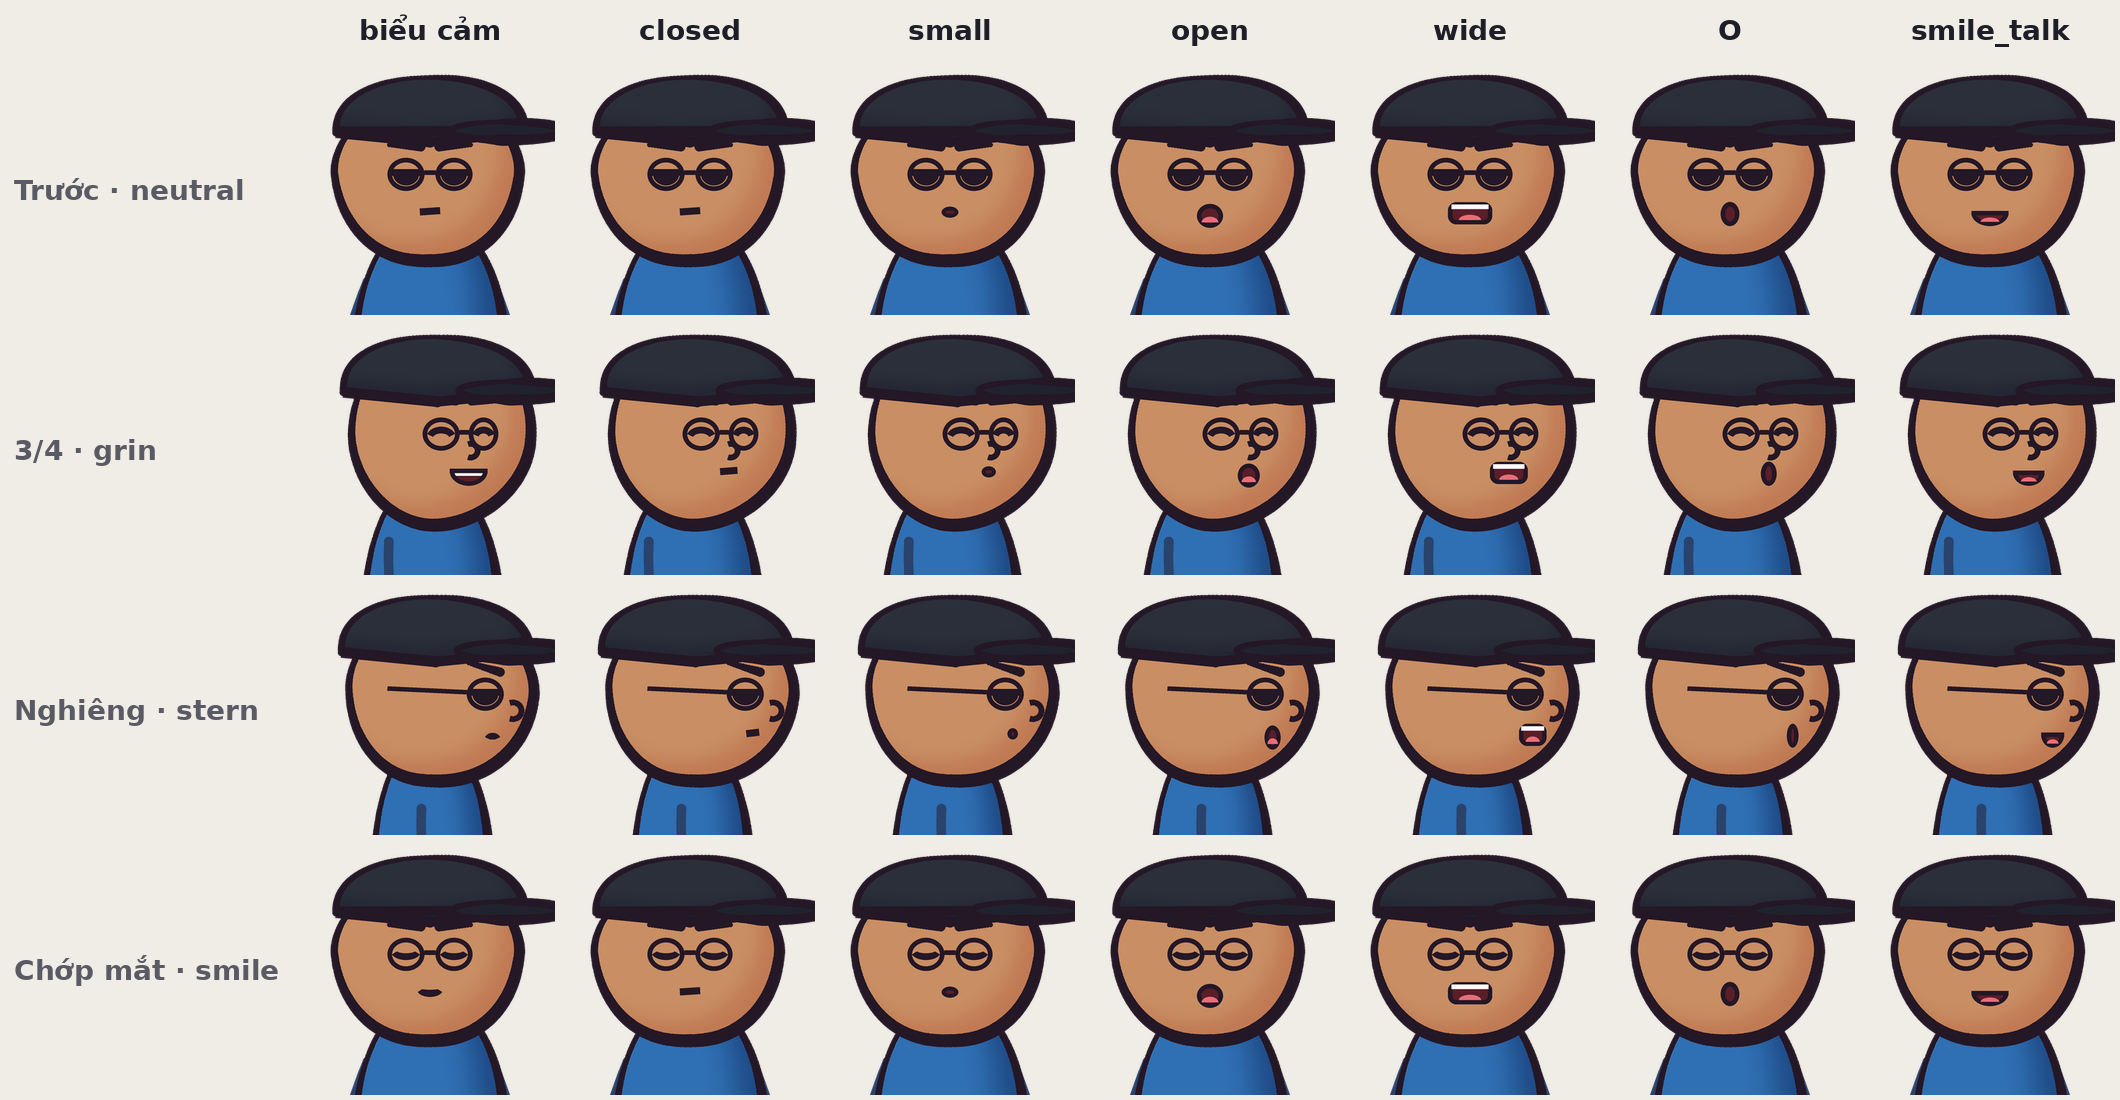
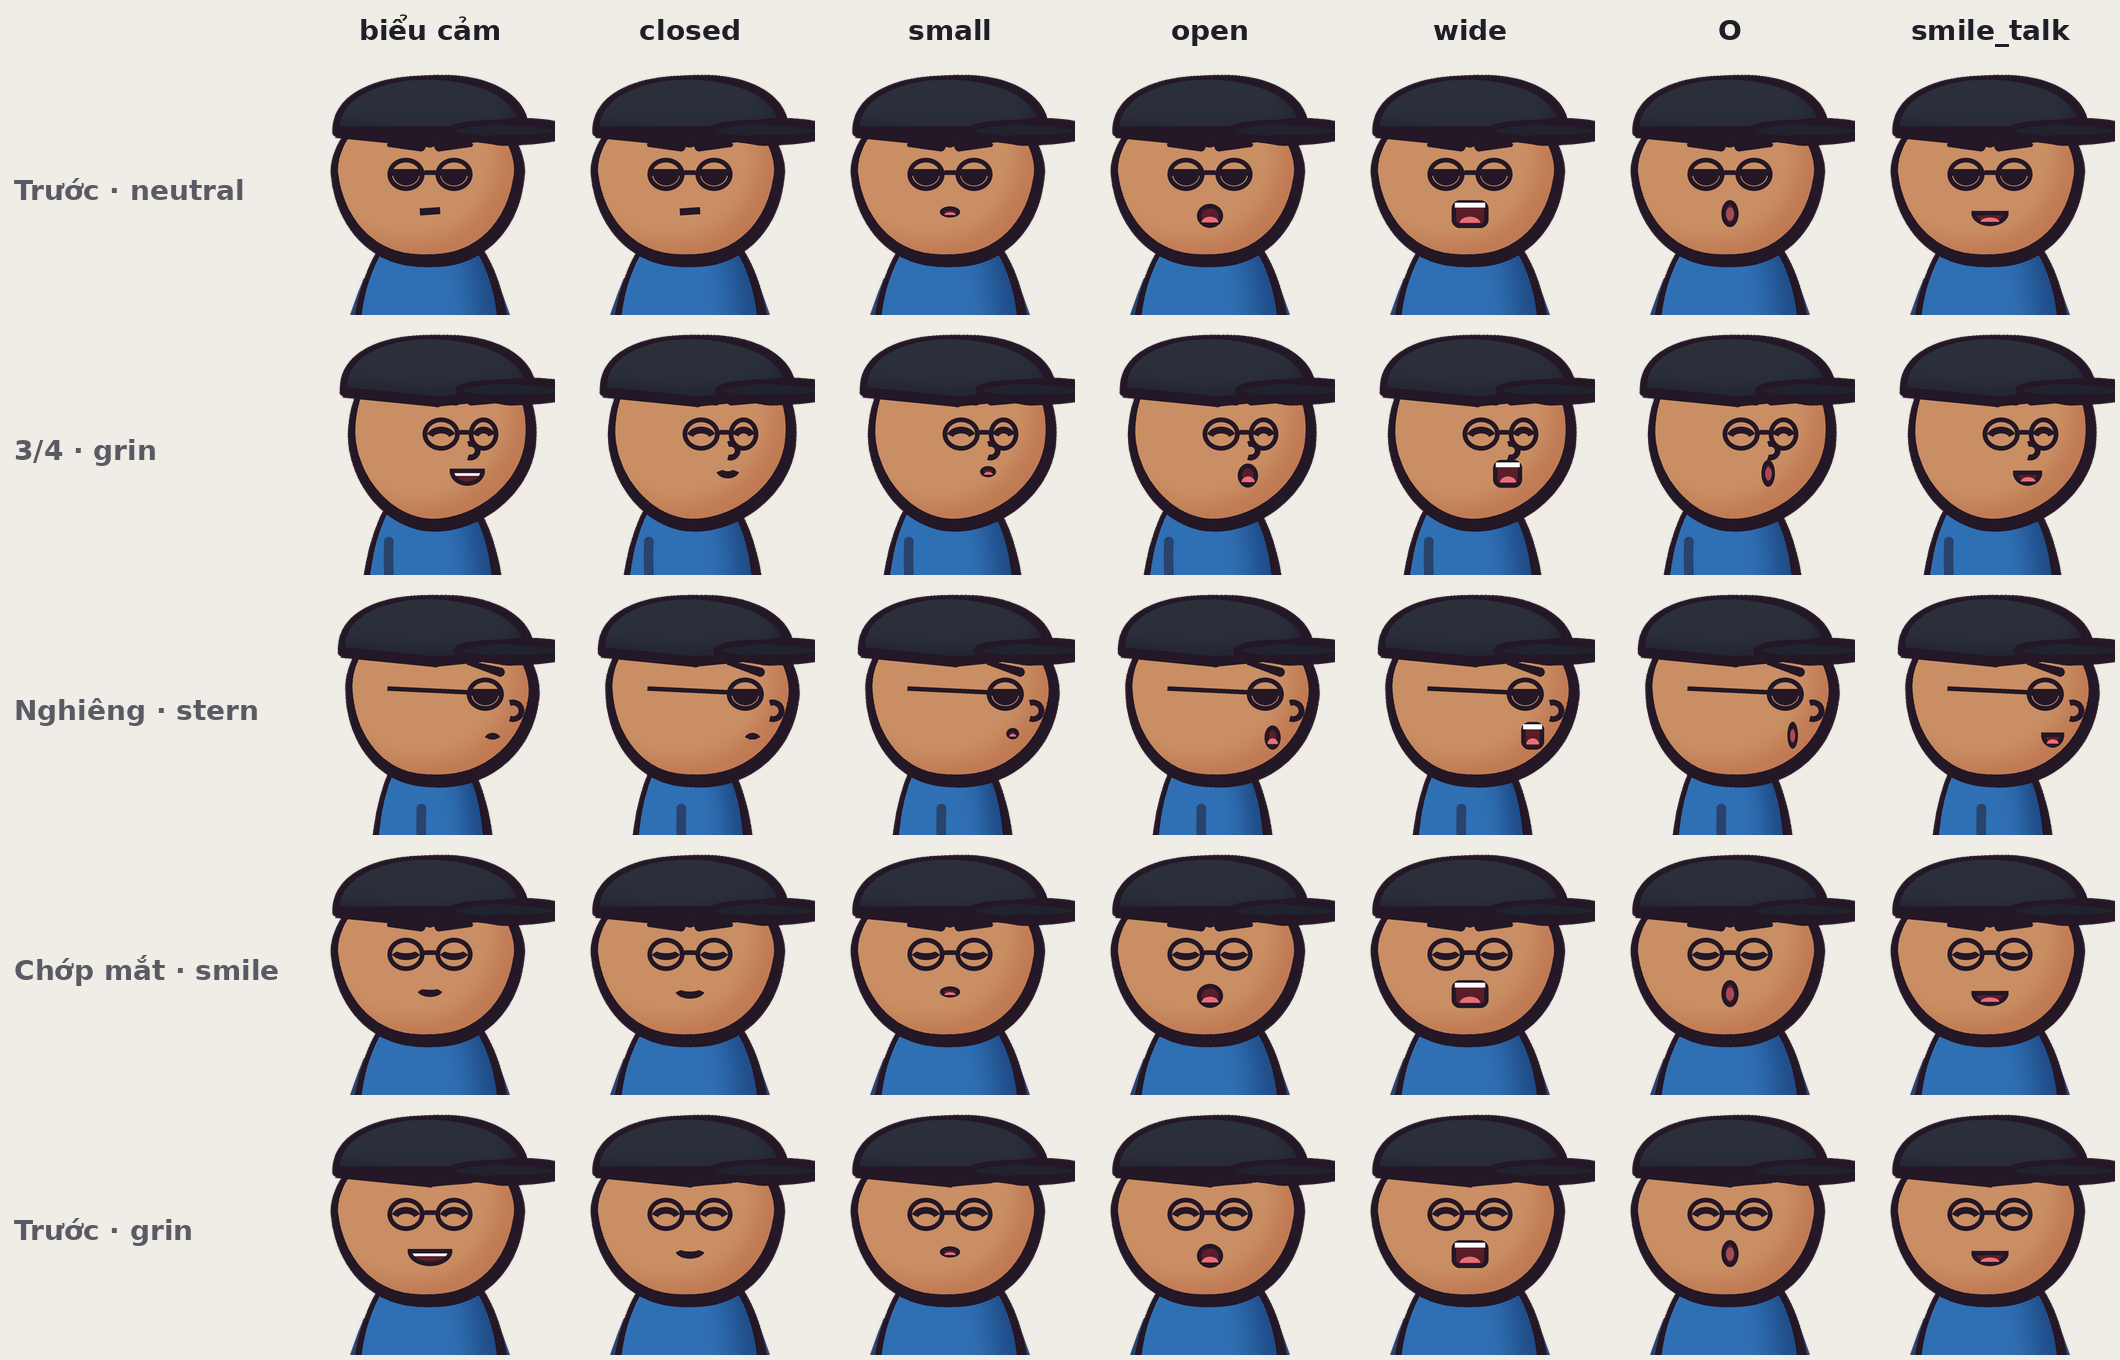
Bean cast: lip-sync mouths in every view (WIP review round 2), walk cycle script
mouth= works in the front view too and closed follows the expression;
small/O/wide reshaped after review. walk.py: foot-locked side walk.

Claude-Session: https://claude.ai/code/session_01CUE841jip3JiSfeXD1a8wE

diff --git a/characters/scripts/walk.py b/characters/scripts/walk.py
@@ -1,0 +1,92 @@
+# Side-view walk cycle for the bean cast, following stickman/DRAWING_RULES.md 20-29:
+#   contact -> down -> passing -> up; only the swinging knee bends (most while passing under the hip);
+#   foot locking (the hip travels exactly as far as the planted foot slides back); arms swing opposite the legs,
+#   a little AFTER them, with the forearm trailing; a small lean into the walk; blinks; a settle on the stop.
+# walk_pose(t) -> turned() pose dict;  walk_track(seconds) -> per-frame (pose, x_offset_px, planted, expr_kw)
+# usage: walk.py <out_dir>   (writes a contact strip, a GIF and prints the foot-lock check)
+import math, os, sys
+sys.path.insert(0, os.path.dirname(os.path.abspath(__file__)))
+from bean import turned, BUILDS
+
+FPS = 30
+STRIDE = 1.1           # seconds per full cycle (two steps)
+
+def leg_len(build):
+    B = BUILDS[build]; HH = 2 * B['b']; u = 2 * B['a'] / 100
+    hip_y = 975 - HH * (1 + B['torso'] + B['legs']) + 2 * B['b'] + B['torso'] * HH - 0.12 * HH
+    return (975 - 3.75 * u - hip_y) / 2
+
+def walk_pose(t, amp=21.0):
+    """Angles: + = forward. N leg leads at t=0 (contact, N in front)."""
+    ph = 2 * math.pi * t / STRIDE
+    s, c = math.sin(ph), math.cos(ph)
+    thN, thF = amp * c, -amp * c                                  # thigh: N forward at ph=0
+    swN, swF = max(0.0, -s) ** 1.4, max(0.0, s) ** 1.4            # a leg swings while its thigh moves forward
+    downN = 8 * max(0.0, s) ** 3 * (1 - swN)                       # the stance knee gives a little after contact (DOWN)
+    downF = 8 * max(0.0, -s) ** 3 * (1 - swF)
+    legN = (thN + 0.35 * 30 * swN + downN * 0.3, thN - 0.9 * 34 * swN - downN)   # swing: thigh lifts forward, shin trails
+    legF = (thF + 0.35 * 30 * swF + downF * 0.3, thF - 0.9 * 34 * swF - downF)
+    lag = 0.4                                                       # arms peak a little after the legs (overlap)
+    a = 20 * math.cos(ph - lag)                                     # opposite the legs: near arm goes back when the near leg goes forward
+    fa = 14 + 8 * math.cos(ph - lag - 0.6)                          # forearm trails and stays bent forward
+    return dict(legN=legN, legF=legF, armN=(-a, -a + fa), armF=(a, a + fa), lean=4.0, tilt=-1.0)
+
+def _foot_x(leg, L, s=1):
+    a1, a2 = math.radians(leg[0]), math.radians(leg[1])
+    return s * (math.sin(a1) + math.sin(a2)) * L, (math.cos(a1) + math.cos(a2)) * L
+
+def walk_track(seconds, build='adult', start_x=0.0):
+    """Foot locking: the stance foot (the lower one) stays put; the hip moves by exactly its slide."""
+    L = leg_len(build); out = []; anchor = None; stance = None; hip = start_x
+    for f in range(int(seconds * FPS) + 1):
+        p = walk_pose(f / FPS)
+        xN, yN = _foot_x(p['legN'], L); xF, yF = _foot_x(p['legF'], L)
+        st = 'N' if yN >= yF else 'F'
+        rel = xN if st == 'N' else xF
+        if st != stance: anchor = hip + rel; stance = st
+        hip = anchor - rel
+        out.append((p, hip, st))
+    return out
+
+def blink_at(t, every=(2.3, 3.1, 2.7)):
+    """Blink for ~2 frames every 2-4 s (moving holds never fully freeze)."""
+    acc = 0.6
+    for k in range(100):
+        acc += every[k % len(every)]
+        if acc <= t < acc + 2.5 / FPS: return True
+        if acc > t: return False
+    return False
+
+if __name__ == '__main__':
+    from PIL import Image, ImageDraw
+    out = sys.argv[1] if len(sys.argv) > 1 else '.'
+    char = dict(build='adult', skin='#f6d2b0', shirt='#3fb37f', pants='#2f3f6b', hat='beanie', hat_col='#f2c230', seed=11)
+    track = walk_track(STRIDE)
+    frames = []; rig_x = []
+    for f, (p, hx, st) in enumerate(track):
+        rig = {}
+        im = turned('side', facing=1, pose=p, rig=rig, blink=blink_at(f / FPS), **char)
+        frames.append((im, hx)); rig_x.append((rig['ankleN'][0] + hx, rig['ankleF'][0] + hx, rig['ankleN'][1], rig['ankleF'][1], st))
+    # foot-lock check (QA: a planted foot moves <= 2 px while planted)
+    worst = 0.0; prev = None
+    for xn, xf, yn, yf, st in rig_x:
+        x = xn if st == 'N' else xf
+        if prev and prev[1] == st: worst = max(worst, abs(x - prev[0]))
+        prev = (x, st)
+    print(f'foot lock: planted foot moves at most {worst:.2f} px per frame')
+    # contact strip: 8 poses over one stride, side by side on one ground line, plus a GIF that walks across
+    sel = [round(i * (len(frames) - 1) / 8) for i in range(8)]
+    strip = Image.new('RGBA', (8 * 300, 560), (240, 237, 230, 255)); d = ImageDraw.Draw(strip)
+    for i, k in enumerate(sel):
+        im = frames[k][0].resize((300, 500), Image.LANCZOS); strip.alpha_composite(im, (i * 300, 40))
+        d.text((i * 300 + 10, 8), f'f{k}', fill=(60, 60, 70))
+    d.line([(0, 40 + 487), (2400, 40 + 487)], fill=(150, 140, 130), width=2)
+    strip.save(os.path.join(out, 'walk_strip.png'))
+    gif = []; track2 = walk_track(2 * STRIDE)
+    for f, (p, hx, st) in enumerate(track2):
+        bg = Image.new('RGBA', (900, 520), (240, 237, 230, 255))
+        im = turned('side', facing=1, pose=p, blink=blink_at(f / FPS), **char).resize((300, 500), Image.LANCZOS)
+        bg.alpha_composite(im, (int(-150 + hx * 0.5), 10)); ImageDraw.Draw(bg).line([(0, 497), (900, 497)], fill=(150, 140, 130), width=2)
+        gif.append(bg.convert('P', palette=Image.ADAPTIVE))
+    gif[0].save(os.path.join(out, 'walk.gif'), save_all=True, append_images=gif[1:], duration=int(1000 / FPS), loop=0)
+    print('ok', len(gif), 'frames')

diff --git a/characters/scripts/bean.py b/characters/scripts/bean.py
@@ -303,7 +303,7 @@ def draw_face(C, expr, cx, cy, u, facing, glasses, moustache, has_hat, mouth=Non
         if M:
             for k in (-6, 0, 6): L([(mx + k * u, my - 4 * u), (mx + k * u, my + 4 * u)], 1.6 * u)
         if M: L([(mx - 12 * u, my), (mx + 12 * u, my)], 1.6 * u)
-    if mouth: mouth_shape(d, mouth, mx, my, u, 1.0, 1)
+    if mouth: mouth_shape(d, CLOSED_FOR.get(expr, 'dash') if mouth == 'closed' else mouth, mx, my, u, 1.0, 1)
     if glasses:
         for x in (eL, eR):
             d.ellipse(((x - 10 * u) * S, (cy - 9 * u) * S, (x + 10 * u) * S, (cy + 9 * u) * S), outline=K, width=int(2.6 * u * S))
@@ -383,16 +383,21 @@ def _rot_layer(im, deg, center, translate=(0, 0)):
     return im.rotate(-deg, resample=Image.BICUBIC, center=(center[0] * S, center[1] * S),
                      translate=(translate[0] * S, translate[1] * S))
 
-def mouth_shape(d, kind, mx, my, u, sx=1.0, s=1):
-    """Mouths shared by expressions and lip sync. sx squeezes the width (3/4 and side views)."""
+# 'closed' follows the expression, so a smiling face does not drop to a neutral dash on every closed-mouth frame
+CLOSED_FOR = {'grin': 'smile_closed', 'smile': 'smile_closed', 'smug': 'smirk', 'stern': 'frown', 'pained': 'frown', 'nervous': 'wave'}
+
+def mouth_shape(d, kind, mx, my, u, sx=1.0, s=1, far=1.0):
+    """Mouths shared by expressions and lip sync. sx squeezes the width (3/4 and side views); far < 1 shrinks the
+    half of the mouth on the far side of a 3/4 face (the +s side)."""
     K = INK
-    def X(v): return mx + v * u * sx
+    def X(v): return mx + v * u * sx * (far if v * s > 0 else 1.0)
     def L(pts, w): d.line([(x * S, y * S) for x, y in pts], fill=K, width=max(1, int(w * S)), joint='curve')
     def box(x0, y0, x1, y1): return ((X(x0)) * S, (my + y0 * u) * S, (X(x1)) * S, (my + y1 * u) * S)
     if kind in ('dash', 'closed'):
         L([(X(-5.5), my + 0.4 * u * s), (X(5.5), my - 0.4 * u * s)], 4 * u)
     elif kind == 'frown': d.arc(box(-7, 0, 7, 7), 200, 340, fill=K, width=int(4 * u * S))
     elif kind == 'smirk': d.arc(box(-7, -5, 7, 3), 20, 160, fill=K, width=int(4 * u * S))
+    elif kind == 'smile_closed': d.arc(box(-8, -5, 8, 4), 15, 165, fill=K, width=int(4 * u * S))
     elif kind == 'wave': L([(X(-9 + k * 1.8), my + math.sin(k * 1.3) * 1.5 * u) for k in range(11)], 3.5 * u)
     elif kind == 'grin':
         d.chord(box(-12, -8, 12, 8), 0, 180, fill=MOUTH)
@@ -404,16 +409,19 @@ def mouth_shape(d, kind, mx, my, u, sx=1.0, s=1):
         for k in (-6, 0, 6): L([(X(k), my - 4 * u), (X(k), my + 4 * u)], 1.6 * u)
         L([(X(-12), my), (X(12), my)], 1.6 * u)
     # ---- lip-sync shapes: one anchor, similar sizes, so they swap cleanly frame to frame
-    elif kind == 'small': d.ellipse(box(-4.5, -2.5, 4.5, 3.5), fill=MOUTH, outline=K, width=int(2.2 * u * S))
+    elif kind == 'small':                                   # a short open slit (a dot read as 'closed' at video size)
+        d.ellipse(box(-5.5, -2.6, 5.5, 3.4), fill=MOUTH, outline=K, width=int(2.2 * u * S))
+        d.chord(box(-3, 0.6, 3, 3.4), 180, 360, fill=TONGUE)
     elif kind == 'open':
         d.ellipse(box(-7, -4, 7, 9), fill=MOUTH, outline=K, width=int(2.5 * u * S))
         d.chord(box(-4.5, 3, 4.5, 9), 180, 360, fill=TONGUE)
-    elif kind == 'wide':
-        d.rounded_rectangle(box(-12, -5, 12, 7), radius=int(4.5 * u * S), fill=MOUTH, outline=K, width=int(2.5 * u * S))
-        d.rectangle((X(-10) * S, (my - 3.6 * u) * S, X(10) * S, (my - 1.2 * u) * S), fill=(255, 255, 255))
-        d.chord(box(-6, 2, 6, 7.5), 180, 360, fill=TONGUE)
-    elif kind == 'O':
-        d.ellipse(box(-5, -5, 5, 8), fill=MOUTH, outline=K, width=int(2.6 * u * S))
+    elif kind == 'wide':                                    # capped near 20u wide; it grows in height, not width
+        d.rounded_rectangle(box(-10, -6, 10, 9), radius=int(4.5 * u * S), fill=MOUTH, outline=K, width=int(2.5 * u * S))
+        d.rectangle((X(-8.2) * S, (my - 4.6 * u) * S, X(8.2) * S, (my - 2.0 * u) * S), fill=(255, 255, 255))
+        d.chord(box(-5.5, 3, 5.5, 9.5), 180, 360, fill=TONGUE)
+    elif kind == 'O':                                       # taller than 'open', with a lighter inside
+        d.ellipse(box(-4.6, -6, 4.6, 8.5), fill=MOUTH, outline=K, width=int(2.6 * u * S))
+        d.ellipse(box(-2.2, -2, 2.2, 5), fill=mix(MOUTH, TONGUE, 0.55))
     elif kind == 'smile_talk':
         d.chord(box(-10, -6, 10, 8), 0, 180, fill=MOUTH)
         d.arc(box(-10, -6, 10, 8), 0, 180, fill=K, width=int(2.5 * u * S)); L([(X(-10), my + u), (X(10), my + u)], 2.5 * u)
@@ -460,7 +468,8 @@ def draw_face_turned(C, expr, hx, hy, u, s, view, glasses, moustache, has_hat, m
     if view != 'front': L([(ncx + s * nr * math.cos(math.radians(t)), ncy + nr * math.sin(math.radians(t))) for t in range(-110, 111, 10)], 3.2 * u)
     mx = hx + s * (31 if view == 'side' else 17 if view == '3q' else 0) * u; my = hy + (21 if view == 'side' else 20) * u
     sx = 0.62 if view == 'side' else 0.85 if view == '3q' else 1.0
-    mouth_shape(d, mouth or mk, mx, my, u, sx, s)
+    mk2 = (CLOSED_FOR.get(expr, 'dash') if mouth == 'closed' else mouth) if mouth else mk
+    mouth_shape(d, mk2, mx, my, u, sx, s, far=0.85 if view == '3q' else 1.0)
     if moustache:
         col = hexrgb(moustache)
         for sg in ((s,) if view == 'side' else (-1, 1)):

diff --git a/characters/scripts/mouths_sheet.py b/characters/scripts/mouths_sheet.py
@@ -6,7 +6,7 @@ from bean import character, MOUTHS
 from PIL import Image, ImageDraw, ImageFont
 CH_ = dict(build='adult', skin='#c98e63', shirt='#2f6fb3', pants='#e8e2d0', hat='cap', hat_col='#2b2f3a', glasses=True, seed=9)
 ROWS = [('Trước · neutral', dict(view='front', expr='neutral')), ('3/4 · grin', dict(view='3q', expr='grin', facing=1)),
-        ('Nghiêng · stern', dict(view='side', expr='stern', facing=1)), ('Chớp mắt · smile', dict(view='front', expr='smile', blink=True))]
+        ('Nghiêng · stern', dict(view='side', expr='stern', facing=1)), ('Chớp mắt · smile', dict(view='front', expr='smile', blink=True)), ('Trước · grin', dict(view='front', expr='grin'))]
 F = ImageFont.truetype('/usr/share/fonts/truetype/dejavu/DejaVuSans-Bold.ttf', 28)
 cw, lab = 260, 300
 sheet = Image.new('RGBA', (lab + cw * (len(MOUTHS) + 1), 60 + cw * len(ROWS)), (240, 237, 230, 255)); d = ImageDraw.Draw(sheet)

diff --git a/characters/RULES.md b/characters/RULES.md
@@ -19,3 +19,9 @@ The spec is `references/reports/characters.md` §2. The anatomy and animation ru
 12. **Edge-on discs** (lamps seen from the side) need a housing and a coloured lens stroke. A bare ink line read as a stray mark.
 13. **Text that carries a joke must read at video size.** The helmet sticker on the back of the head is about 1.45a wide (most of the shell). Small stickers on the side of the helmet are decoration only.
 14. A **second, fixed handlebar** must read as a bar, not a fork: make it wider than the steering bar, thick, a different colour, with a clamp block and bolt heads.
+
+## Lip sync (`mouth=`)
+15. **Every mouth shape must differ in silhouette at video size.** A dot `small` read as `closed`, and a round `O` read as `open`. `small` is an open slit with a tongue hint, and `O` is taller than `open` with a lighter inside.
+16. **Keep mouth widths close** (`wide` is capped near 20u and grows in height), so the mouth does not jump between frames.
+17. **`closed` follows the expression** (`CLOSED_FOR`). Otherwise a smiling face drops to a neutral dash on every closed-mouth frame.
+18. **In 3/4 view, shrink the far half of the mouth** by about 15%.
